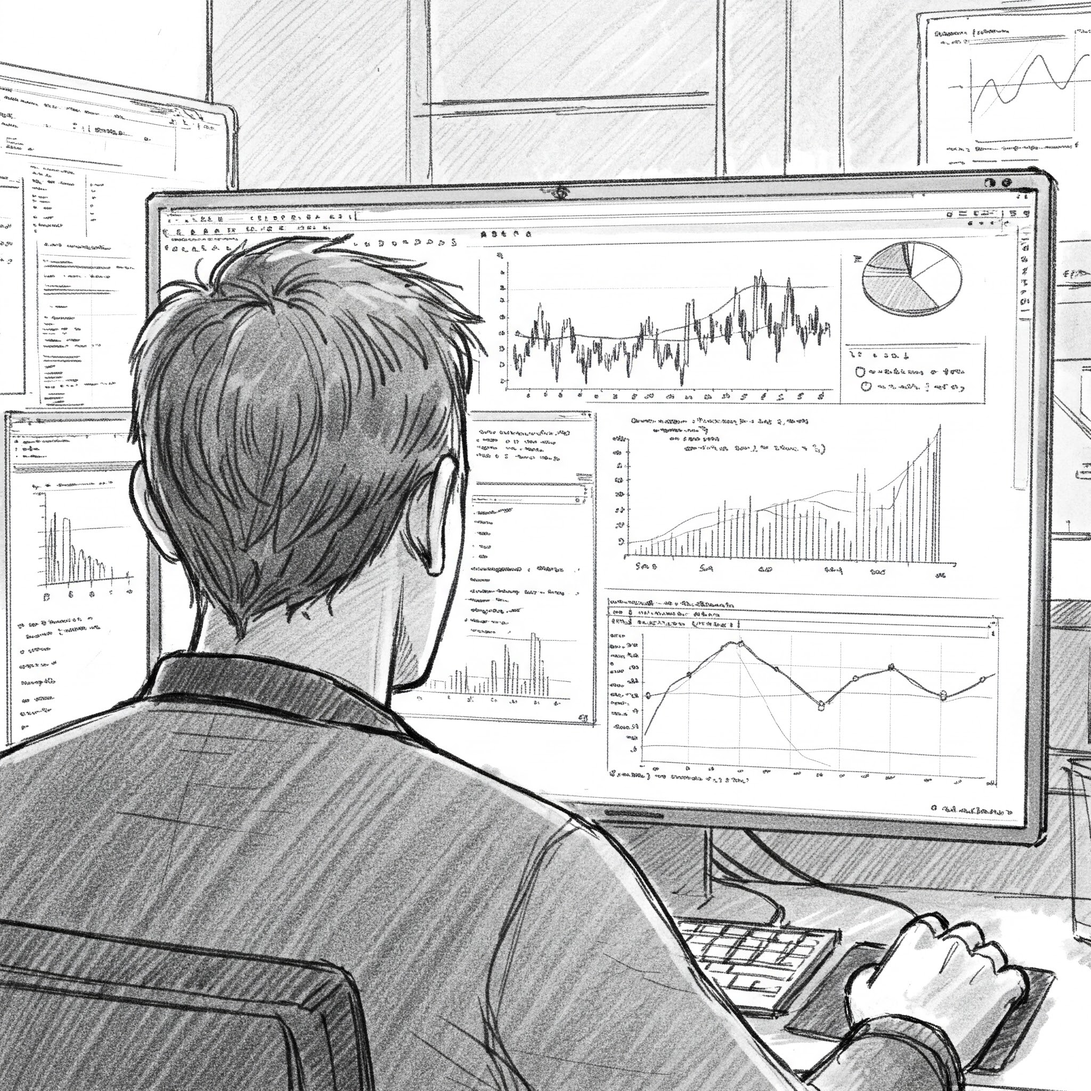
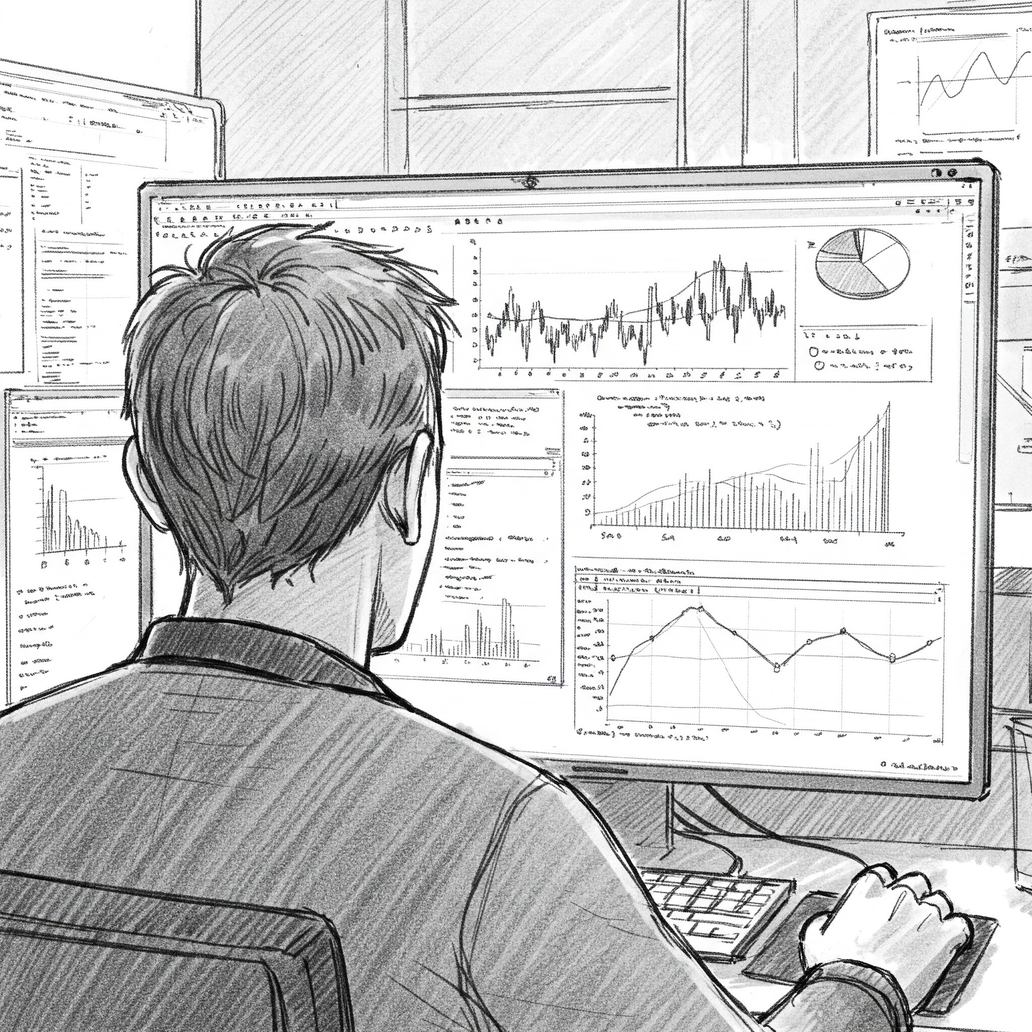
fixeroo

diff --git a/style.css b/style.css
@@ -34,11 +34,11 @@ body {
 
 /* Section Specific Backgrounds (Example) */
 #photography {
-    background-color: #f4f4f4;
+    background-color: #f2f2f2;
 }
 
 #portfolio {
-    background-color: #e2e2e2;
+    background-color: #c2c2c2;
 }
 
 /* Style the links within the Portfolio section content */
@@ -393,7 +393,7 @@ body {
 
     /* KEEP/ADJUST existing styles */
     padding: 8px 16px; /* Slightly smaller padding might look better in a bar */
-    background-color: #333;
+    background-color: #828282;
     color: white;
     border: none;
     border-radius: 5px;

diff --git a/photography/barcelona.html b/photography/barcelona.html
@@ -9,7 +9,9 @@
 
     <header class="site-header">
         <div class="header-left">
-            <a href="/" class="home-icon-link" aria-label="Homepage">🏠</a>
+            <a href="/" class="home-icon-link" aria-label="Homepage">
+                <img src="../../icons/home.svg" alt="" class="home-icon"> </img>
+            </a>
             <button id="contactBtn" class="contact-button">Contact Me</button>
         </div>
         <div class="dropdown">

diff --git a/photography/ben_lomond.html b/photography/ben_lomond.html
@@ -9,7 +9,9 @@
 
     <header class="site-header">
         <div class="header-left">
-            <a href="/" class="home-icon-link" aria-label="Homepage">🏠</a>
+            <a href="/" class="home-icon-link" aria-label="Homepage">
+                <img src="../../icons/home.svg" alt="" class="home-icon"> </img>
+            </a>
             <button id="contactBtn" class="contact-button">Contact Me</button>
         </div>
         <div class="dropdown">

diff --git a/photography/edinburgh.html b/photography/edinburgh.html
@@ -9,7 +9,9 @@
 
     <header class="site-header">
         <div class="header-left">
-            <a href="/" class="home-icon-link" aria-label="Homepage">🏠</a>
+            <a href="/" class="home-icon-link" aria-label="Homepage">
+                <img src="../../icons/home.svg" alt="" class="home-icon"> </img>
+            </a>
             <button id="contactBtn" class="contact-button">Contact Me</button>
         </div>
         <div class="dropdown">

diff --git a/photography/london.html b/photography/london.html
@@ -9,7 +9,9 @@
 
     <header class="site-header">
         <div class="header-left">
-            <a href="/" class="home-icon-link" aria-label="Homepage">🏠</a>
+            <a href="/" class="home-icon-link" aria-label="Homepage">
+                <img src="../../icons/home.svg" alt="" class="home-icon"> </img>
+            </a>
             <button id="contactBtn" class="contact-button">Contact Me</button>
         </div>
         <div class="dropdown">

diff --git a/index.html b/index.html
@@ -9,9 +9,6 @@
 <body>
     <header class="site-header">
         <div class="header-left">
-            <a href="/" class="home-icon-link" aria-label="Homepage">
-                🏠
-            </a>
             <button id="contactBtn" class="contact-button">Contact Me</button>
         </div>
         <div class="dropdown">
